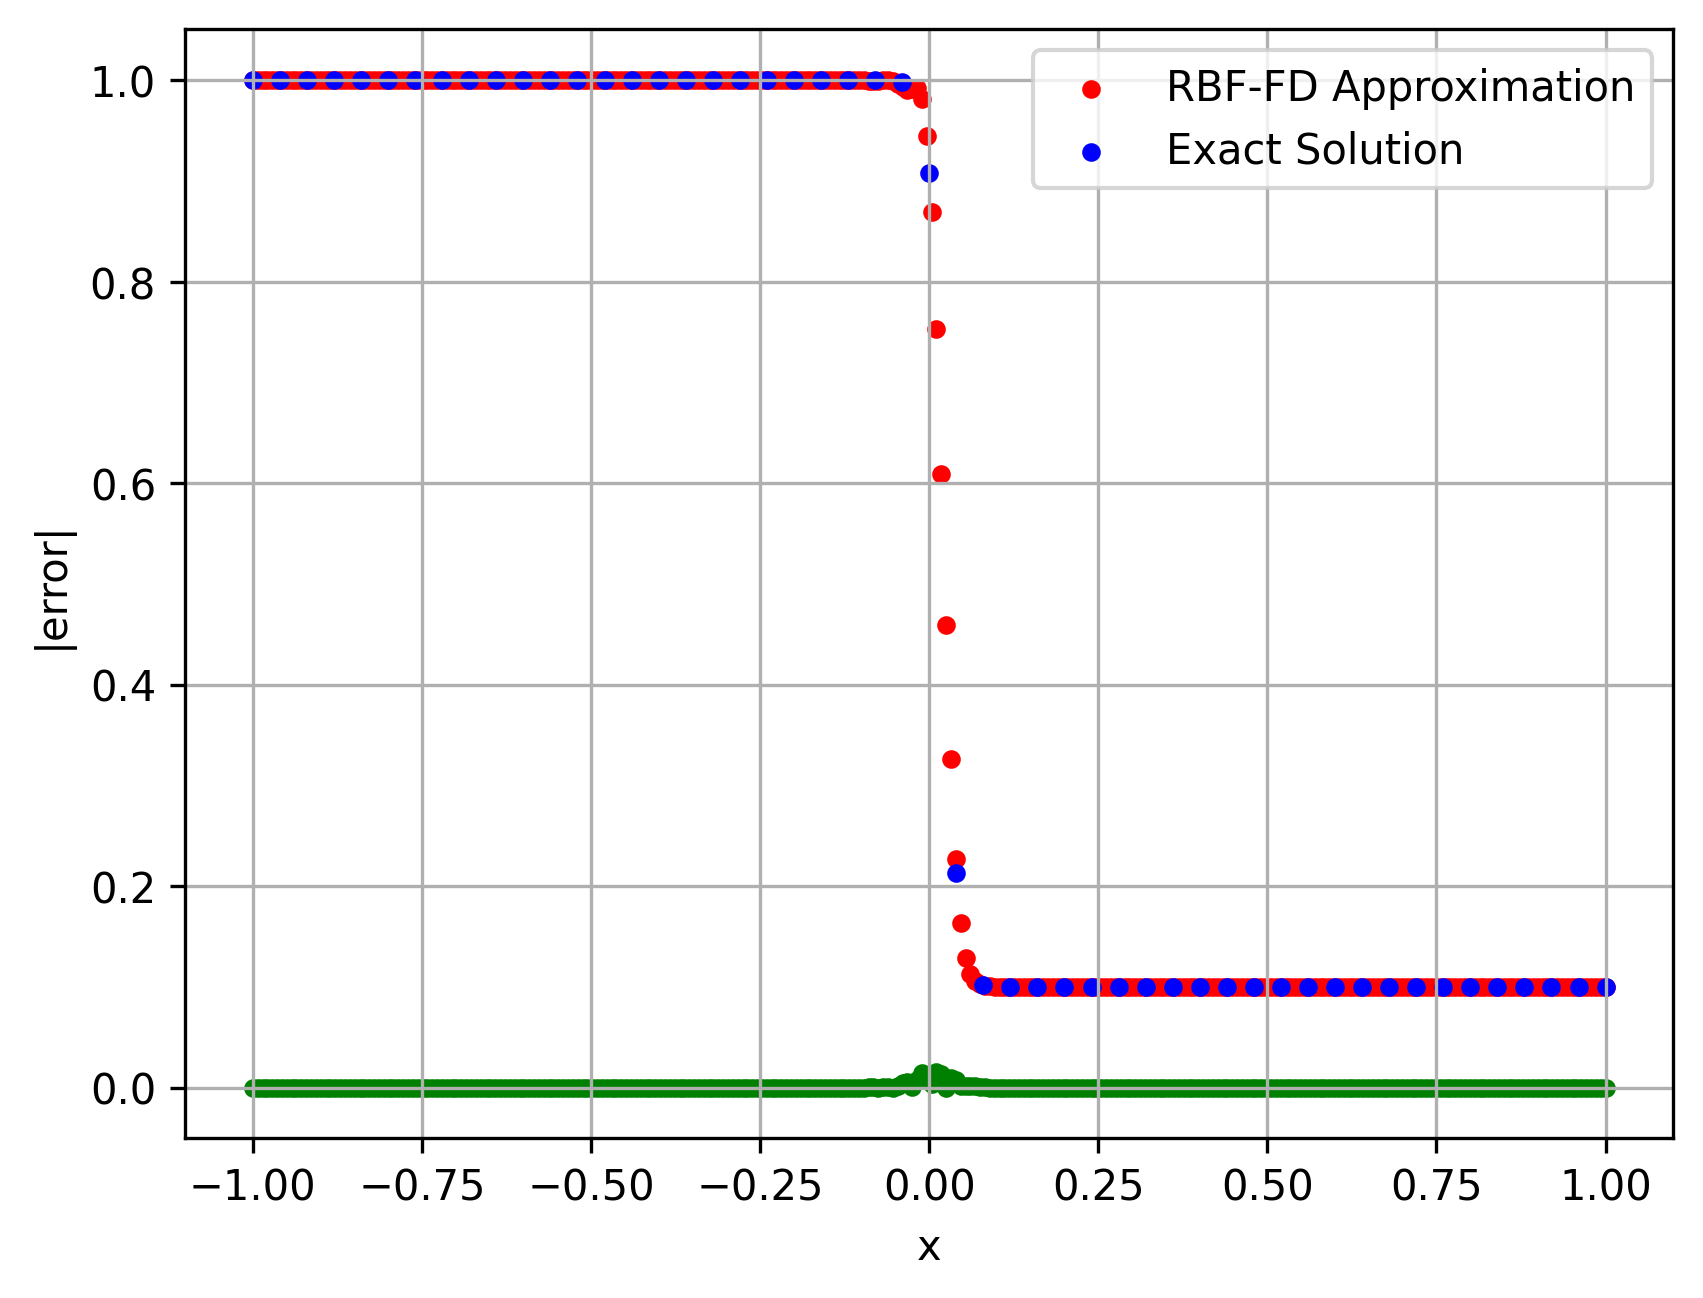
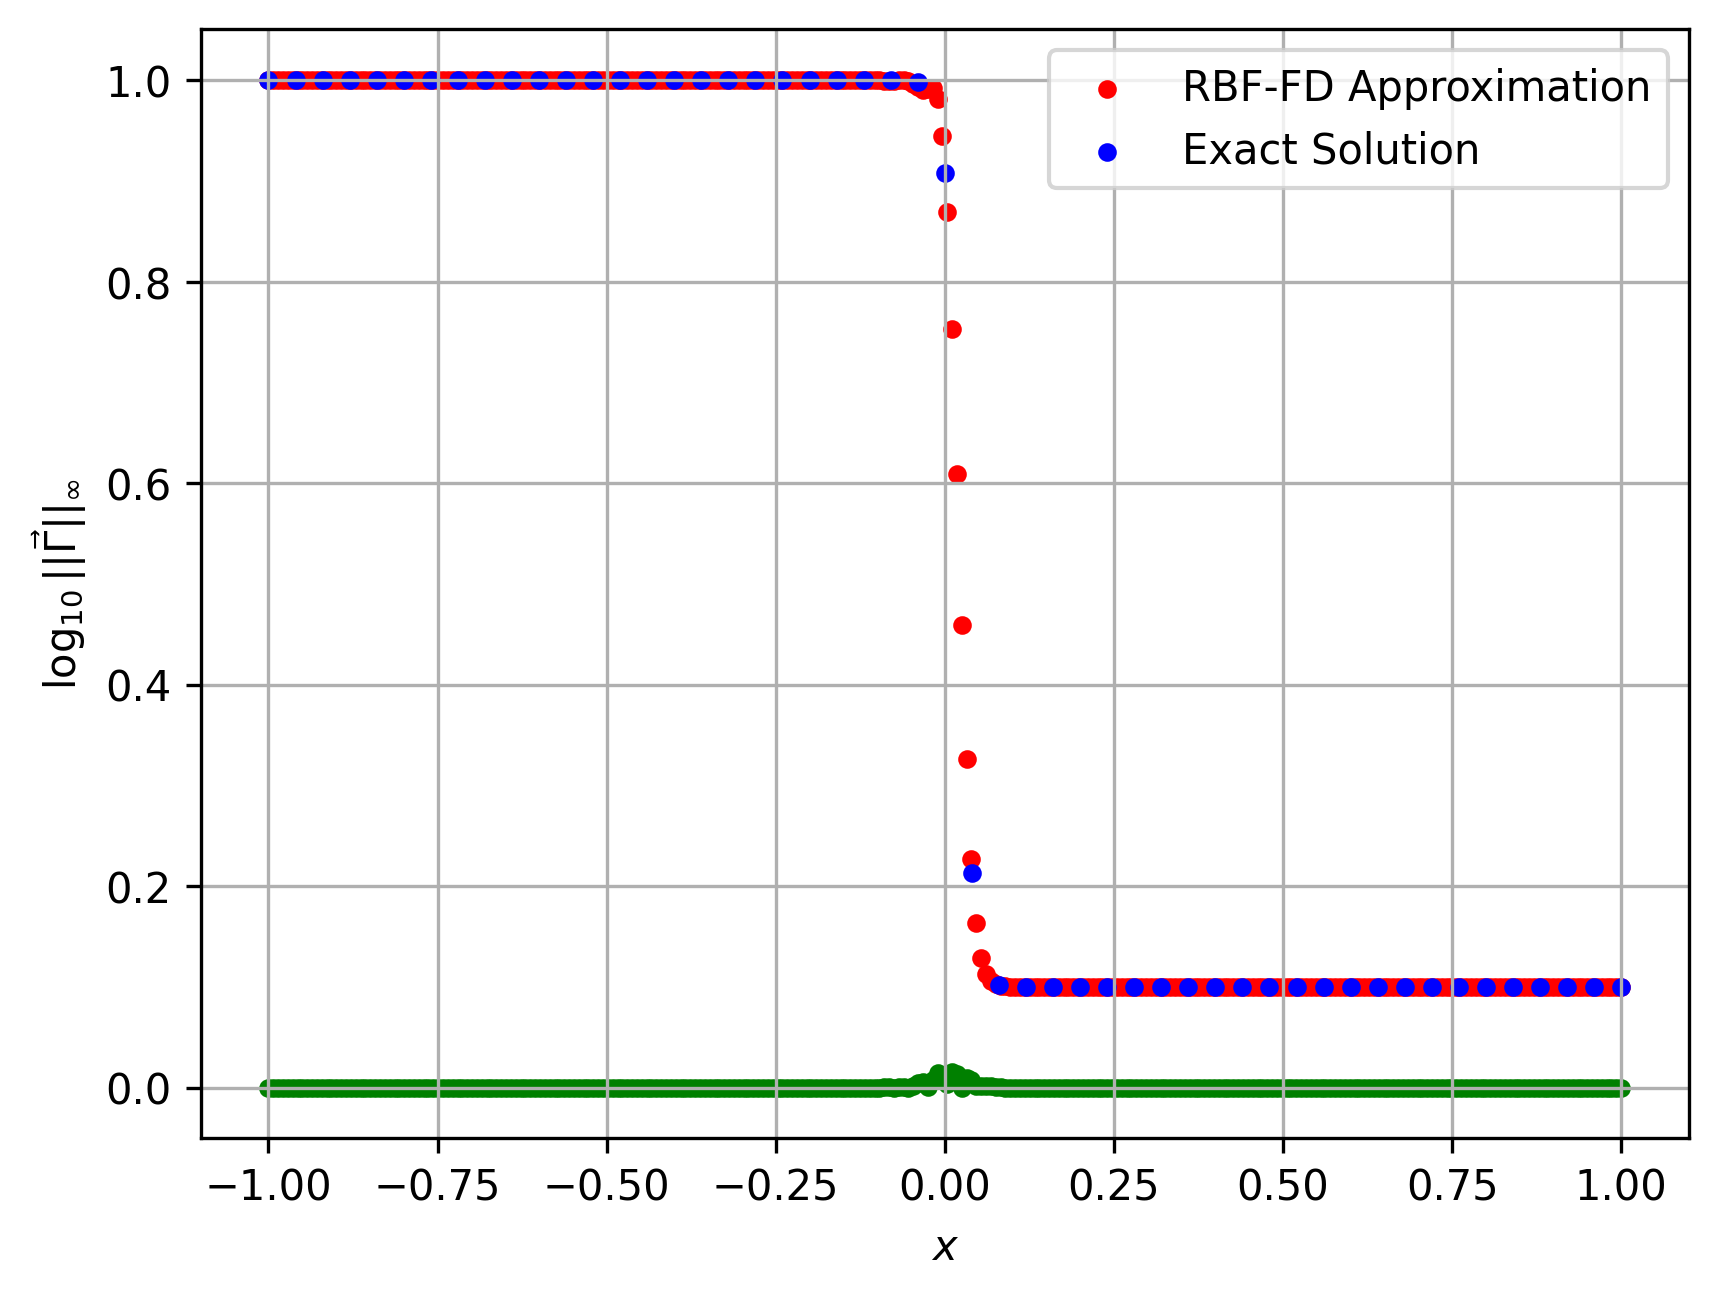
Changed axis titles

diff --git a/one_d_interpolation.py b/one_d_interpolation.py
@@ -219,7 +219,7 @@ for i in range(1,7): # Iterates over number of sample points
   num_pts = int((((stop-start)/step)+1))
   xvals_ = np.linspace(start,stop, num = num_pts) #creates x values into a np.array
   true_y = y_func(xvals_)
-  xvals_graph.append(u)
+  xvals_graph.append(np.log10(u))
   for k in range(1,5): # Iterates over polynomial degrees
 
     p_degree = 2*k + 1
@@ -246,16 +246,16 @@ for i in range(1,7): # Iterates over number of sample points
 
 
 
-plt.scatter(xvals_graph, poly_degree_3_vec, color = 'red', label = '3') # Data Points
-plt.scatter(xvals_graph, poly_degree_5_vec, color = 'blue', label = '5') # Data Points
-plt.scatter(xvals_graph, poly_degree_7_vec, color = 'green', label = '7') # Data Points
-plt.scatter(xvals_graph, poly_degree_9_vec, color = 'orange', label = '9') # Data Points
-plt.xlabel('n')
-plt.ylabel('infinity norm')
+plt.scatter(xvals_graph, poly_degree_3_vec, color = 'red', label = 'Polynomial Degree 3') # Data Points
+plt.scatter(xvals_graph, poly_degree_5_vec, color = 'blue', label = 'Polynomial Degree 5') # Data Points
+plt.scatter(xvals_graph, poly_degree_7_vec, color = 'green', label = 'Polynomial Degree 7') # Data Points
+plt.scatter(xvals_graph, poly_degree_9_vec, color = 'orange', label = 'Polynomial Degree 9') # Data Points
+plt.xlabel(r'$\log_{10}(n)$')
+plt.ylabel(r'$\log_{10} ||\vec{\Gamma}||_{\infty}$')
 plt.title('Infinity norm vs. n')
 plt.grid(True)
 plt.legend()
-plt.show()
+plt.savefig(r"c:\Users\lucas\RBF_Research\RBF_Research\Test_Cases\one_d_interpolation_phs.png", dpi=300, bbox_inches="tight")
 ## Basic Plot
 #plt.plot(xvals, true_y, 'bo', label="Original Points")  # Blue dots for original points
 #plt.plot(extended_xvals, interpolation_pts, 'ro', label="Interpolation Curve")

diff --git a/Test_Cases/burgers_2d.py b/Test_Cases/burgers_2d.py
@@ -280,16 +280,16 @@ burgers_exact_graph = burgers_exact_solution(xvals_graph_exact, 1.2)
 
 plt.scatter(xvals, U, color = 'red', label = 'RBF-FD Approximation', s = 12) # Data Points
 plt.scatter(xvals_graph_exact, burgers_exact_graph, color = 'blue', label = 'Exact Solution', s = 12) # Data Points
-plt.xlabel('x')
-plt.ylabel('u(x,t)')
+plt.xlabel(r'$x$')
+plt.ylabel(r'$u(x,t)$')
 plt.grid(True)
 plt.legend()
 plt.savefig(r"c:\Users\lucas\RBF_Research\RBF_Research\Test_Cases\burgers_approx.png", dpi=300, bbox_inches="tight")
 
 error_vec = abs(burgers_exact_solution(xvals, 1.2) - U)
 plt.scatter(xvals, error_vec, color = 'green', label = 'Error', s = 12) # Data Points
-plt.xlabel('x')
-plt.ylabel('|error|')
+plt.xlabel(r'$x$')
+plt.ylabel(r'$\log_{10} ||\vec{\Gamma}||_{\infty}$')
 plt.grid(True)
 plt.savefig(r"c:\Users\lucas\RBF_Research\RBF_Research\Test_Cases\burgers_error.png", dpi=300, bbox_inches="tight")
 

diff --git a/Test_Cases/fd_testcase_d2.py b/Test_Cases/fd_testcase_d2.py
@@ -179,8 +179,8 @@ plt.scatter(xvals_graph, poly_degree_3_vec, color = 'red', label = 'Poly Degree 
 plt.scatter(xvals_graph, poly_degree_5_vec, color = 'purple', label = 'Poly Degree 5', s = 25, marker = 'D') # Data Points
 plt.scatter(xvals_graph, poly_degree_7_vec, color = 'green', label = 'Poly Degree 7', s = 25, marker = '^') # Data Points
 #plt.scatter(xvals_graph, poly_degree_9_vec, color = 'orange', label = 'Poly Degree 9', s = 12) # Data Points
-plt.xlabel('Base 10 Log of n')
-plt.ylabel('Base 10 Log of Max Error')
+plt.xlabel(r'$\log_{10}(n)$')
+plt.ylabel(r'$\log_{10} ||\vec{\Gamma}||_{\infty}$')
 plt.title('Base 10 Log of Max Error vs. Base 10 Log of n')
 plt.grid(False)
 plt.legend()
